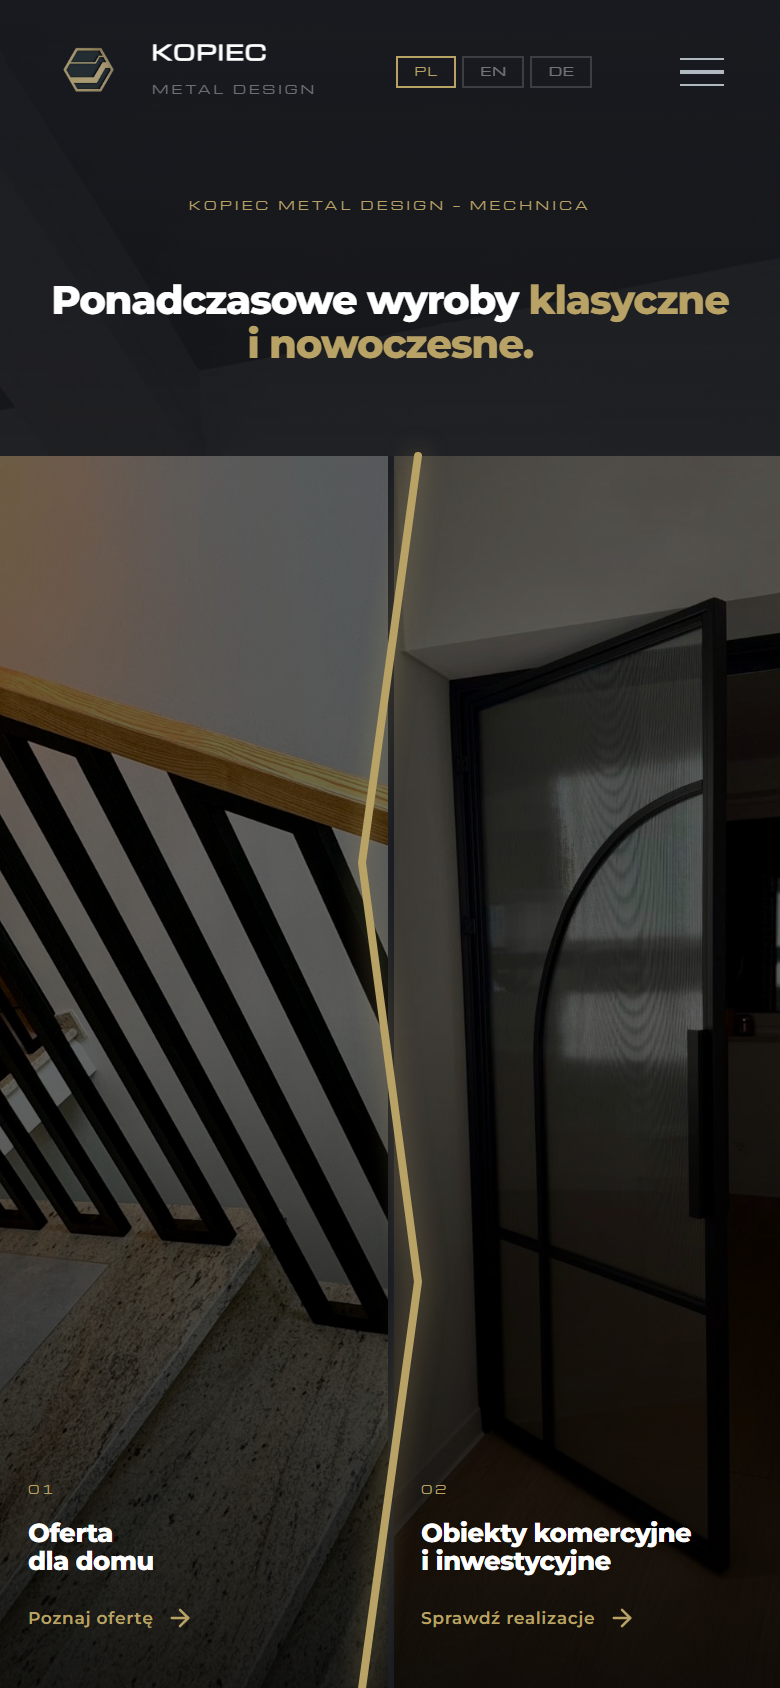
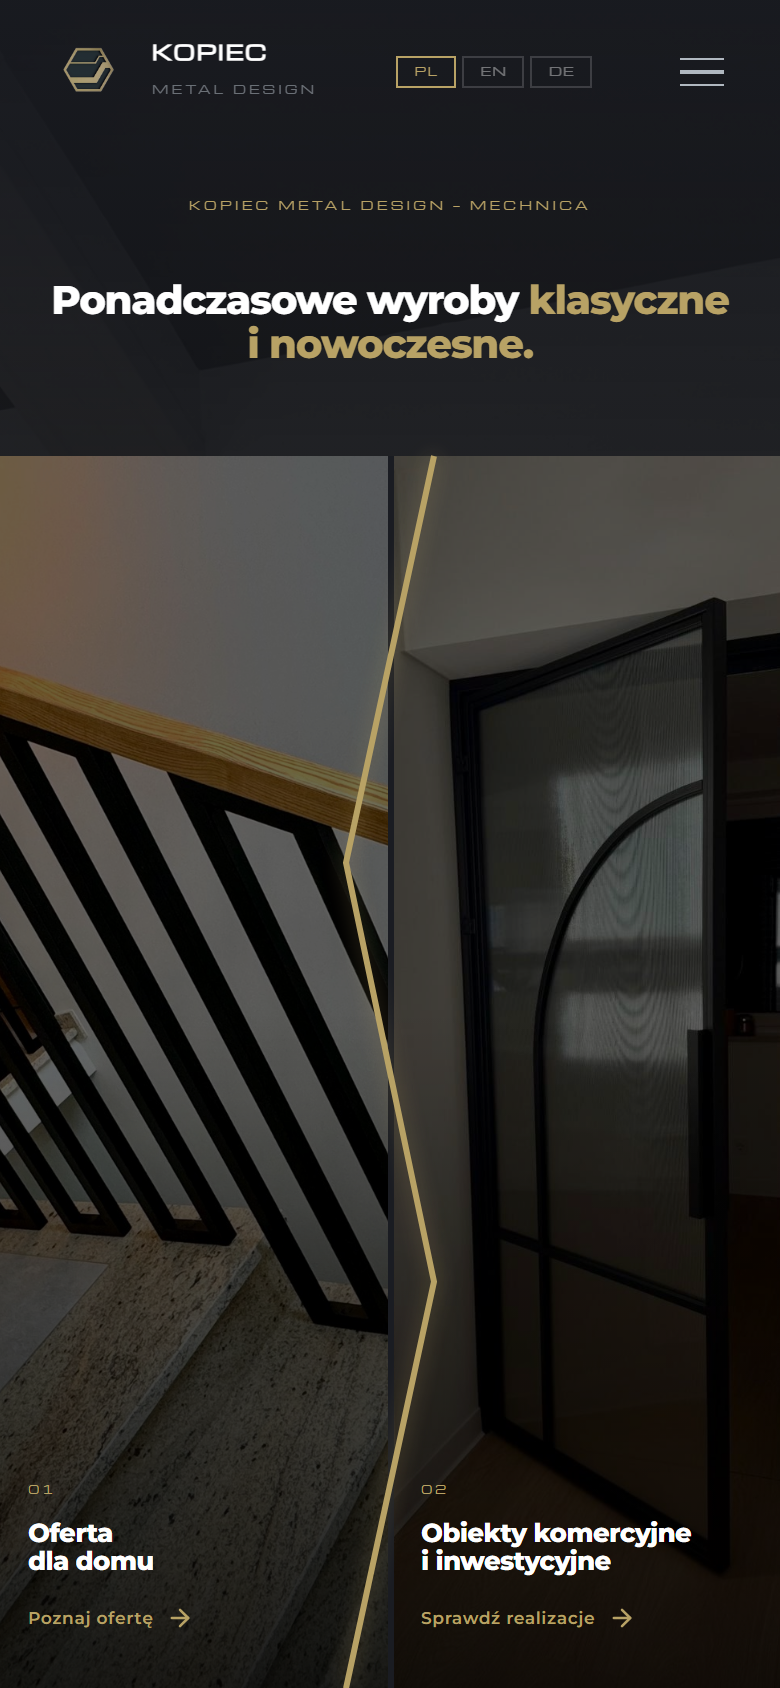
Fix separator: sharp miter joints, geometric zigzag - no round curves

Changed region(s): [[0.4308, 0.2464, 0.5846, 1.0]]

diff --git a/index.html b/index.html
@@ -154,15 +154,15 @@
       background: var(--antracyt);
     }
 
-    /* Złota błyskawica — pełna wysokość kafli */
+    /* Złoty zygzak — geometryczny separator, pełna wysokość */
     .hero-chevron {
       position: absolute;
       top: 0; bottom: 0;
-      left: calc(50% - 28px);
-      width: 56px; height: 100%;
+      left: calc(50% - 36px);
+      width: 72px; height: 100%;
       z-index: 10; pointer-events: none;
       overflow: visible;
-      filter: drop-shadow(0 0 6px rgba(184,162,101,0.55));
+      filter: drop-shadow(0 0 5px rgba(184,162,101,0.45));
     }
 
     /* KAFELKI — proste, bez clip-path */
@@ -1041,12 +1041,12 @@
   <!-- Split panels -->
   <div class="hero-split">
 
-    <!-- Złoty zygzak — 3 segmenty nawiązujące do logo, pełna wysokość -->
-    <svg class="hero-chevron" viewBox="0 0 56 100" preserveAspectRatio="none" xmlns="http://www.w3.org/2000/svg">
-      <polyline points="42,0 14,33 42,67 14,100"
-        fill="none" stroke="#B8A265" stroke-width="4"
+    <!-- Złoty zygzak — ostre narożniki, 3 segmenty jak w logo -->
+    <svg class="hero-chevron" viewBox="0 0 72 100" preserveAspectRatio="none" xmlns="http://www.w3.org/2000/svg">
+      <polyline points="58,0 14,33 58,67 14,100"
+        fill="none" stroke="#B8A265" stroke-width="3"
         vector-effect="non-scaling-stroke"
-        stroke-linecap="round" stroke-linejoin="round"/>
+        stroke-linecap="butt" stroke-linejoin="miter" stroke-miterlimit="10"/>
     </svg>
 
     <!-- 1 — Oferta dla domu -->
